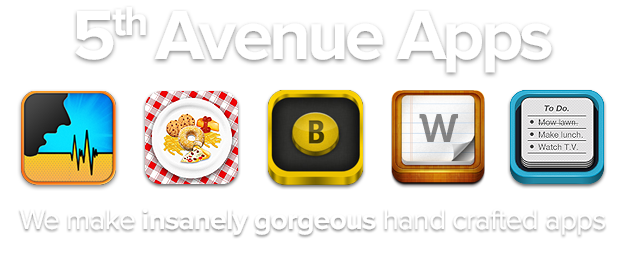
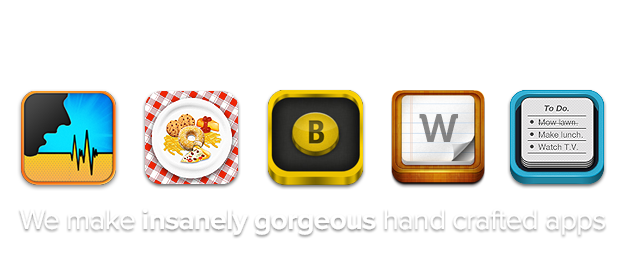
Save work

diff --git a/index.html b/index.html
@@ -8,11 +8,11 @@
 	<!-- Basic Page Needs
   ================================================== -->
 	<meta charset="utf-8">
-	<title>iPhone App Development, Android App Development, iPad App Development, and Windows Phone Development Agency - 5th Avenue Apps</title>
+	<title>iPhone App Development, Android App Development, iPad App Development, and Windows Phone Development Agency - Tidal Apps</title>
 	<link rel="shortcut icon" href="favicon.ico" type="image/x-icon">
 	<link rel="icon" href="favicon.ico" type="image/x-icon">
 	<meta name="keywords" content="Mobile Applications Development, Mobile Application Developers, Mobile Application, Developing Mobile Applications, Application Development, App Developers, iPhone Application, iPhone Apps Development Company, iPhone Development, Developing iPhone Apps, mobile app development company, iPhone app developer, android application development, iPhone app developer, blackberry developers" />
-	<meta name="description" content="5th Avenue Apps is one of the top iPhone/iPad and Android app development firm based in NYC. With over 1000s of apps across iPhone, iPad, Android and Windows mobile App Stores, our team build gorgeous User Experiences and Techniques in mobile as well as web development arena."/> 
+	<meta name="description" content="Tidal Apps is one of the top iPhone/iPad and Android app development firm based in NYC. With over 1000s of apps across iPhone, iPad, Android and Windows mobile App Stores, our team build gorgeous User Experiences and Techniques in mobile as well as web development arena."/> 
 	<meta name="author" content="Assad Ullah">
 
 	<!-- Mobile Specific Metas
@@ -58,7 +58,7 @@
 			<div style="height: 200px;margin-top: -100px;overflow: hidden;"><img src="images/intro.png" style="margin-left: -45px;" /></div><br />
 			<p style="color:white;font-size:26px;margin-top:-10px;margin-left:-40px;">We make <strong style="color:white;">insanely gorgeous</strong> hand crafted apps</p>
 			<a class="a_demo_four" href="index.html#contact"><strong>Get FREE Quote</strong></a> <span><strong>OR</strong></span>
-			<a class="a_demo_four" style="left:10px;" href="index.html#contact"><strong>Call us at +1 (718) 593-4361</strong></a>
+			<a class="a_demo_four" style="left:10px;" href="index.html#contact"><strong>Call us at +1 (408) 775-9647</strong></a>
 						
 			
 			
@@ -196,7 +196,7 @@
 			
 			<div class="sixteen columns">
 				<h2><span class="line3"></span><img src="images/star.png" alt="" /> Services <img src="images/star.png" alt="" /><span class="line4"></span></h2>
-				<p class="headline">We can help in you in these areas for your next <strong>kick ass</strong> project</p>
+				<p class="headline">We can help you in these areas for your next <strong>kick ass</strong> project</p>
 			</div> <!-- end sixteen columns -->
 			
 			<div class="four columns">
@@ -232,11 +232,11 @@
 			<div class="sixteen columns">
 				<h2 style="margin-bottom:40px;">Some Insanely Great Appreciations</h2>
 				<p>
-					"5thAvenueApps team was great to work with. We gave them a complicated project. They took ambiguous aspects of it and improved upon them to build something awesome. They also picked up the slack when we were not doing our jobs properly." - <strong>Chris Dutrow</strong>
+					"Tidal Apps team was great to work with. We gave them a complicated project. They took ambiguous aspects of it and improved upon them to build something awesome. They also picked up the slack when we were not doing our jobs properly." - <strong>Chris Dewlow</strong>
 					<br /><br />
-					"Working with Assad and 5thAvenueApps team was a great experience. These guys were able to quickly understand my requirements and start development on the project. More importantly, they were able to absorb changes during the project without any delay in completion. I would recommend Assad and his work to any company looking for professional work at a reasonable rate." - <strong>Randy Naricso</strong>
+					"Working with Assad and Tidal Apps team was a great experience. These guys were able to quickly understand my requirements and start development on the project. More importantly, they were able to absorb changes during the project without any delay in completion. I would recommend Assad and his work to any company looking for professional work at a reasonable rate." - <strong>Randy Narlo</strong>
 					<br /><br />
-					"5thAvenueApps team worked well on our social projects and games, providing research and analysis of the best way possible, to approach the project. We will definitely use their services again." - <strong>Peter Wainwright</strong>
+					"Tidal Apps team worked well on our social projects and games, providing research and analysis of the best way possible, to approach the project. We will definitely use their services again." - <strong>Peter Wainrigger</strong>
 				</p>
 			</div> <!-- end sixteen columns -->
 		</div> <!-- end container -->
@@ -261,13 +261,21 @@
 			</div> <!-- end sixteen columns -->		
 			
 			<div class="sixteen columns">
-				<div style="margin-left:215px !important" class="four columns alpha intro-pic">
-					<img src="images/mm_picture.png" class="scale-with-grid" alt="" />
-					<p><strong>Muhammad Mirza</strong><br />Co-Founder / President</p>
-				</div> <!-- end four columns -->
-				<div class="four columns alpha intro-pic">
+				<div style="margin-left:40px !important" class="four columns alpha intro-pic">
+					<img src="images/etay.png" class="scale-with-grid" alt="" />
+					<p><strong>Etay Luz</strong><br />Co-Founder and CTO</p>
+				</div> 
+				<div style="position:relative;left:40px;width:800px;text-align:left;line-height:2;font-size:14">
+				 My name is Etay Luz and I am the founder of Tidal Apps, a New York City based app development agency that specialies in building custom mobile and web apps for entrepreneurs, small businesses, and organizations. Prior to founding Tidal Apps, I worked as a mobile software engineer for some of the biggest technology companies in Silicon Valley including Motorola, Intel, and Qualcomm. I lead a team of incredibly talented engineers and graphic designers.
+				</div>
+<!-- 				<div class="four columns alpha intro-pic">
 					<img src="images/assad_picture.png" class="scale-with-grid" alt="" />
-					<p><strong>Assad Ullah</strong><br />Co-Founder / CEO</p>
+					<p><strong></strong><br />Co-Founder / CEO</p>
+				</div> -->
+				<!-- end four columns -->
+<!-- 				<div class="four columns alpha intro-pic">
+					<img src="images/assad_picture.png" class="scale-with-grid" alt="" />
+					<p><strong></strong><br />Co-Founder / CEO</p>
 				</div> <!-- end four columns -->
 			</div> <!-- twelve columns -->
 			
@@ -344,7 +352,7 @@
 			
 				<div class="contact-info">
 					
-						<p><img src="images/icn-phone.png" alt="" /> +1 (718)-593-4361</p>
+						<p><img src="images/icn-phone.png" alt="" /> +1 (408)-775-9647</p>
 						<p><img src="images/icn-address.png" alt="" /> 2 West 45th St. 5th Avenue, <span>NY 10036, USA<span></p>
 
 				</div> <!-- end contact-info -->
@@ -354,7 +362,7 @@
 		</div> <!-- end container -->
 			
 		<div class="copyright">
-			<p>Copyrights &copy; 2012 5th Avenue Apps. All rights reserved</p>
+			<p>Copyrights &copy; 2012 Tidal Apps. All rights reserved</p>
 		</div> <!-- end copyright -->
 			
 	</div> <!-- end contact -->
